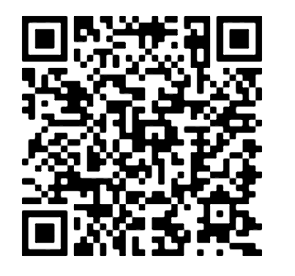
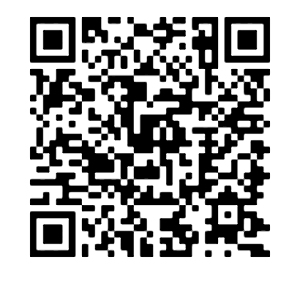
Updated QR

diff --git a/qr.html b/qr.html
@@ -11,7 +11,7 @@
     <div class="qr-code">
       <img src="./media/QR.png" alt="QR Code">
     </div>
-    <a href="https://expo.dev/artifacts/eas/mPTJVg66KdoStcC7KFuPbe.apk" class="qr-link" target="_blank">Click Me!</a>
+    <a href="https://expo.dev/artifacts/eas/etmphxibq6S2BYRkjjm7EF.apk" class="qr-link" target="_blank">Click Me!</a>
   </div>
   
   <script>
